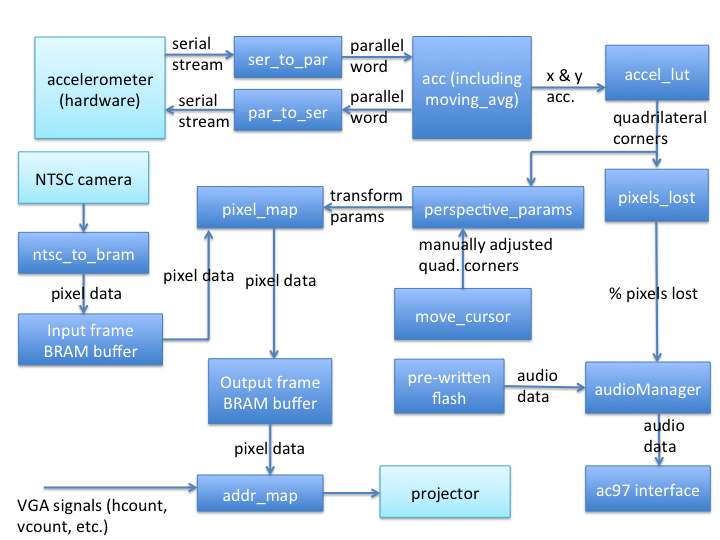
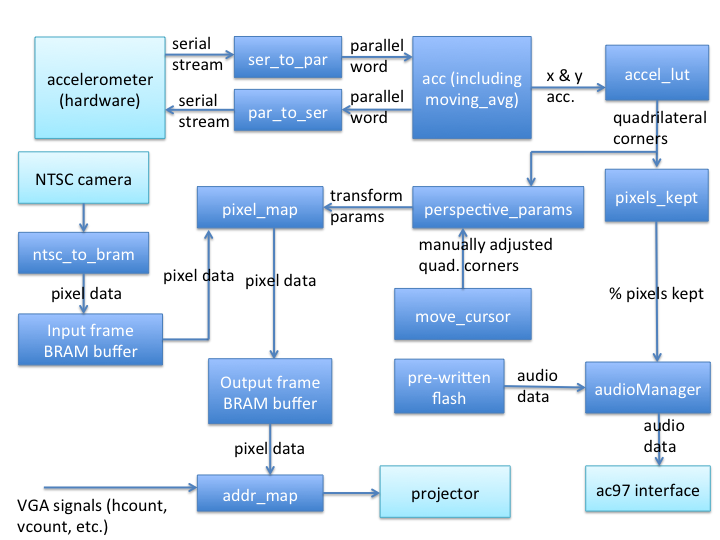
Fixes suggested by Ganesh

Changed region(s): [[0.7944, 0.8593, 1.0, 0.9481], [0.8556, 0.3556, 0.9778, 0.3852], [0.9167, 0.5333, 0.9778, 0.563]]

diff --git a/doc/proj_report/proj_report.tex b/doc/proj_report/proj_report.tex
@@ -589,6 +589,7 @@ Below is an image of the user interface (UI) to our correction system:
 \end{center}
 
 When pressed, button 0 triggers the audio system, which announces the percentage of screen pixels currently used for the corrected image.
+LEDs 7-1 show the binary representation of this value. 
 Buttons 2 and 3 adjust the volume of the audio system up or down.
 The first four digits on the hex display show the current x acceleration value,
 the next four show the current y acceleration value,
